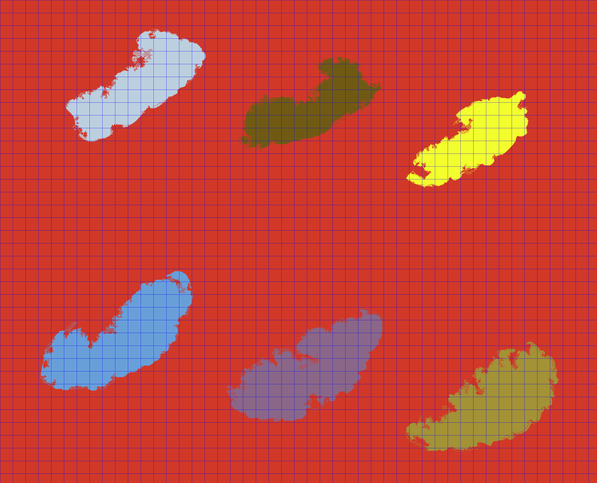
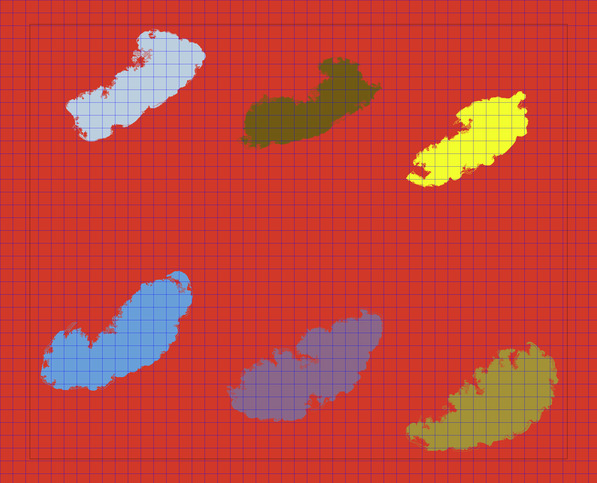
Added support for format selection, tutorial on borders

diff --git a/src/parser_input.py b/src/parser_input.py
@@ -7,31 +7,9 @@ a high resolution histopathological image.
 '''
 
 epilog_str = '''
-    EXAMPLES
+    Examples
     --------
-
-    Keep segmented image, save patches, produce a thumbnail with marked the
-    selected patches, use a content threshold of 0.1 for patch selection.
-
-    segment_hist -pfxt 0.1 input_image
-
-    segment_hist -p -f -x -t 0.1 input_image
-
-    Do not save patches, produce thumbnail, use different than the default values
-    for k and m parameters.
-
-    segment_hist -xk 10000 -m 1000 input_image
-
-    Do not save patches, produce thumbnail, use a content threshold of 0.1 for
-    patch selection, for background identification use bottom_left and top_right
-    corners.
-
-    segment_hist -xt 0.1 -b 0000 -c 0101 input_image
-
-    Function in test mode, use different than the default values for k and m
-    parameters.
-
-    segment_hist --test -k 1000 -m 1000 input_image
+    TODO
     '''
 
 
@@ -62,6 +40,12 @@ def build_parser():
         default=512,
         help='''Integer indicating the size of the produced patches. A value of D
         will produce patches of size D x D. Default value is 512.''')
+    group_exec.add_argument(
+        "--format",
+        help='Format ("png" or "jpg") to save the patches.',
+        type=str,
+        default="png",
+        metavar="FORMAT")
     group_exec.add_argument(
         "--verbose",
         help='Print status messages at each step of the pipeline.',
@@ -132,12 +116,13 @@ def build_parser():
         help='''
         A four digit string. Each digit represents a border of the image in the
         following order: left, bottom, right, top. If the digit is 1, then the 
-        corresponding border will be taken into account to define
-        background. For instance, with 1010 the algorithm will look at the left
+        corresponding border will be taken into account to define background. 
+        For instance, with 1010 the algorithm will look at the left
         and right borders of the segmented image, in a window of width defined by
         the -n argument, and every segment identified will be set as background.
-        If this argument is different from 0000, then --corners should be 0000.
-        Default value is 1111.''',
+        This argument is mutually exclusive with --corners. If --borders is set 
+        to be different from 0000, then --corners must be 0000. Default value is 
+        1111.''',
         choices=combs)
 
     group_segmentation.add_argument(
@@ -146,13 +131,14 @@ def build_parser():
         default='0000',
         help='''
         A four digit string. Each digit represents a corner of the image in the
-        following order: top_left, bottom_left, bottom_right, top_right. If the
-        digit is equal to 1 and not 0, then the corresponding corner will be taken
-        into account to define background. For instane, with -c 0101 the algorithm
-        will look at the bottom_left and top_right corners of the segmented image,
-        in a square window of size given by the -n argument, and every segment
-        identified will be set as background. If this argument is different from 0000,
-        then --borders should be 0000. Default value is 0000.''',
+        following order: top left, bottom left, bottom right, top right. If the
+        digit is equal to 1, then the corresponding corner will be taken
+        into account to define background. For instance, with 0101, the
+        bottom left and top right corners of the segmented image will be considered,
+        with a square window of size given by the --percentage-bc argument, 
+        and every segment identified will be set as background. This argument is
+        mutually exclusive with --borders. If --corners is set to be different from
+        0000, then --borders must be 0000. Default value is 0000.''',
         choices=combs)
 
     group_segmentation.add_argument(

diff --git a/src/utility_functions.py b/src/utility_functions.py
@@ -53,7 +53,7 @@ def produce_edges(args, out_img):
     '''
 
     print("== Step 1: Producing edge image... ==")
-    ts = time.time()
+    ts = round(time.time(), ndigits=3)
 
     # Read the image
     svs = openslide.OpenSlide(args.svs)
@@ -77,7 +77,7 @@ def produce_edges(args, out_img):
     edges = edges.convert('RGB')
     edges.save(out_img, 'PPM')
     warnings.filterwarnings("default")
-    te = time.time()
+    te = round(time.time(), ndigits=3)
 
     if args.verbose:
         print("Elapsed time: " + str(te - ts))
@@ -122,7 +122,7 @@ def produce_test_image(image, out_folder, args):
     wpct = round(resized_mask.shape[1] * border_pct)
 
     # Draw top and bottom borders
-    gcol = [0, 255, 0]
+    gcol = [0, 0, 0]
     width_range = range(wpct, resized_mask.shape[1] - wpct)
     resized_mask[hpct, width_range, :] = gcol
     resized_mask[resized_mask.shape[0] - hpct, width_range, :] = gcol
@@ -151,14 +151,14 @@ def produce_segmented_image(sample_id, out_folder, args):
     '''
     print("\n== Step 2: Segmentation over the mask ==")
 
-    ts = time.time()
+    ts = round(time.time(), ndigits=3)
     bashCommand = "src/graph_segmentation/segment " + str(args.sigma) + \
         " " + str(args.k_const) + " " + str(args.minimum_segmentsize) + " " + \
         out_folder + "edges_" + sample_id + ".ppm" + " " + \
         out_folder + "segmented_" + sample_id + ".ppm"
     process = subprocess.Popen(bashCommand.split(), stdout=subprocess.PIPE)
     output, error = process.communicate()
-    te = time.time()
+    te = round(time.time(), ndigits=3)
 
     if args.verbose:
         print("Elapsed time: " + str(te - ts))

diff --git a/src/patch_selector.py b/src/patch_selector.py
@@ -96,7 +96,7 @@ def run(sample_id, img_outpath, args):
 
     # Open mask image as BGR
     print("\n== Step 3: Selecting tiles ==")
-    ts = time.time()
+    ts = round(time.time(), ndigits=3)
     mask = cv2.imread(img_outpath + "segmented_" + sample_id + ".ppm")
 
     # Identify background colors from the mask
@@ -236,7 +236,7 @@ def run(sample_id, img_outpath, args):
             tile_cols.append(col)
 
             # Save tile
-            tile.save(out_tiles + tile_names[i] + ".jpg")
+            tile.save(out_tiles + tile_names[i] + "." + args.format)
 
         # Draw cross over corresponding patch section
         # on tilecrossed image
@@ -262,12 +262,12 @@ def run(sample_id, img_outpath, args):
                 # From top left to bottom right
                 draw.line([(start_w, start_h),
                            (start_w + cl_w, start_h + cl_h)],
-                          fill=(0, 0, 255))
+                          fill=(0, 0, 255), width=3)
 
                 # From bottom left to top right
                 draw.line([(start_w, start_h + cl_h),
                            (start_w + cl_w, start_h)],
-                          fill=(0, 0, 255))
+                          fill=(0, 0, 255), width=3)
 
             # Jump to the next tilecross tile
             tc_w = tc_w + tilecross_patchsize + 1
@@ -308,5 +308,5 @@ def run(sample_id, img_outpath, args):
                                 sep="\t")
 
     # Finishing
-    te = time.time()
+    te = round(time.time(), ndigits=3)
     print("Elapsed time: " + str(te - ts))

diff --git a/pyhist.py b/pyhist.py
@@ -29,6 +29,11 @@ def check_compilation():
 
 def check_arguments(args):
 
+    # File format
+    if args.format.lower().strip() not in ["png", "jpg"]:
+        print("Format has to be either png or jpg. Exiting.")
+        sys.exit(1)
+    
     # Borders and Corners
     if (args.borders == '0000'
             and args.corners == '0000') or (args.borders != '0000'

diff --git a/docs/tutorial.md b/docs/tutorial.md
@@ -32,12 +32,14 @@ Let's assume that we want to extract patches of size 64x64 at a downsampled reso
 	python pyhist.py --patch-size 64 --output-downsample 16 --test-mode GTEX-1117F-0126.svs
 	eog output/GTEX-1117F-0126/test_GTEX-1117F-0126.png
 
+<a name="testimage">
 <div align="center">
 <img src="https://raw.githubusercontent.com/manuel-munoz-aguirre/PyHIST/master/docs/resources/test_GTEX-1117F-0126.png" alt="GTEx_mask_test"></img>
 </div>
+</a>
 <br>
 
-Once we verify the tiling and masking, we proceed to extract the patches using the `--save-patches` flag. To save an overview image of the patches that were selected, add the `--save-tilecrossed-image` flag. To see details of the mask generation and patch extraction, use the `--verbose` flag.
+The faint black border that is not part of the grid is an aid for the segmentation and it is explained in the [parameter tuning](#parametertuning) section. Once we verify the tiling and masking, we proceed to extract the patches using the `--save-patches` flag. To save an overview image of the patches that were selected, add the `--save-tilecrossed-image` flag. To see details of the mask generation and patch extraction, use the `--verbose` flag.
 
 	python pyhist.py --patch-size 64 \
 	--output-downsample 16 \
@@ -95,12 +97,18 @@ python pyhist.py --patch-size 64 \
 	--save-tilecrossed-image \
 	--verbose GTEX-1117F-0126.svs
 ```
+[Explain tile saving formats]
 
-# Parameter tuning
-PyHIST has some auxiliary tuning parameters that can be modified to change how the segmentation is performed. Here we show a the effect of tweaking a few important parameters: borders and corners. PyHIST checks either: a) the four borders (default) or b) the four corners of the image to aid in the determination of the foreground color. But sometimes, there is tissue content in the border. In this case, we simply override the check for the offending side.
-
-
-
+# Random patch sampling<a name="randomsapling"></a>
+TODO
 
 
-For the complete list, refer to the [parameters](parameters.md) page.
+# Parameter tuning<a name="parametertuning"></a>
+PyHIST has some auxiliary tuning parameters that can be modified to change how the segmentation is performed. Here we show a the effect of tweaking an important parameter: *borders*. PyHIST checks either: 
+a) the four borders (default) or b) the four corners of the image to aid in the determination of the background color. For example, on the [test mode image](#testimage) shown above, everything that is outside the region enclosed by the black square is defined to be as background color. However, sometimes, there is tissue content in the border, which leads to an incorrect segmentation. In those case, we simply override checking the offending sides with the `--borders` parameter, which takes a four digit string as an argument indicating which sides need to be considered, in order of left, bottom, right, top. In the case above, to override the check for the top and right borders, we would call PyHIST with `--borders 1100`:
+
+![borders_argument](resources/borders_argument.png)
+
+The same logic applies for `--corners` parameter. The checking of borders/corners is mutually exclusive - only one can be set at a time. By default, determination of background is done using the borders.
+
+For the complete list of parameters, refer to the [parameters](parameters.md) page.
